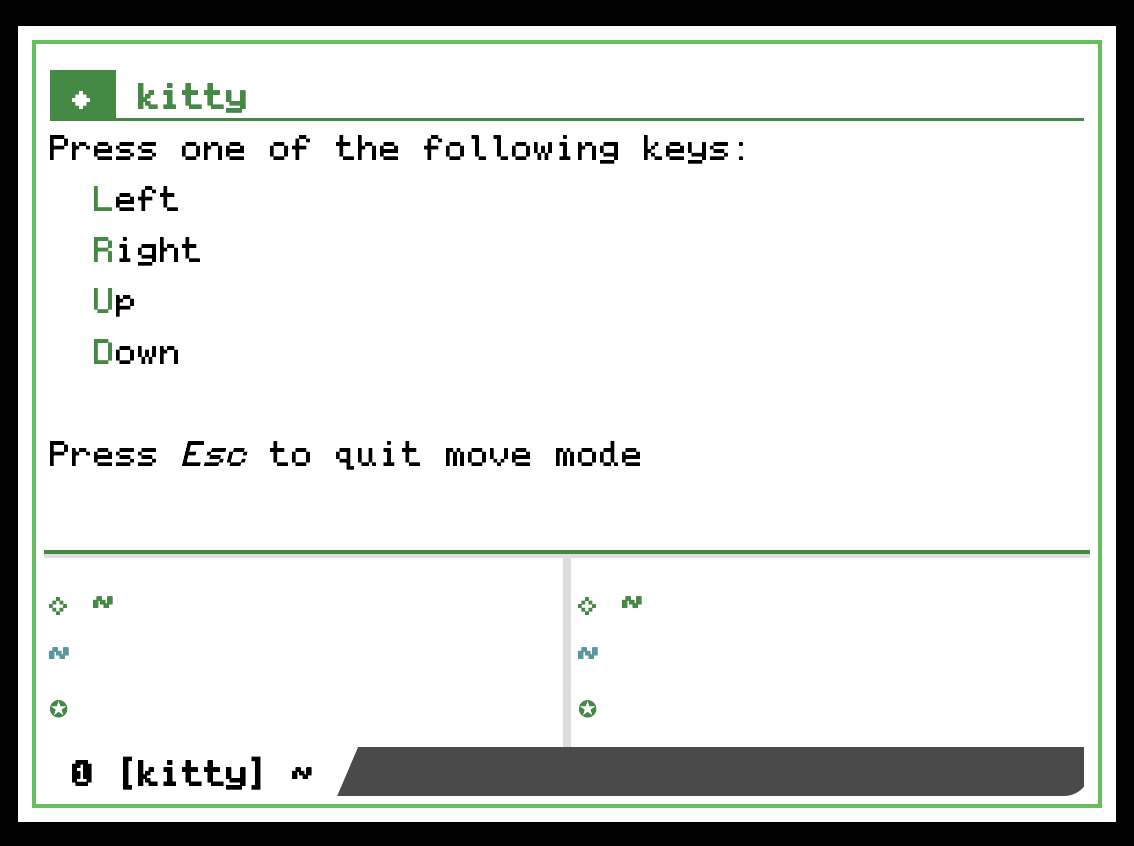
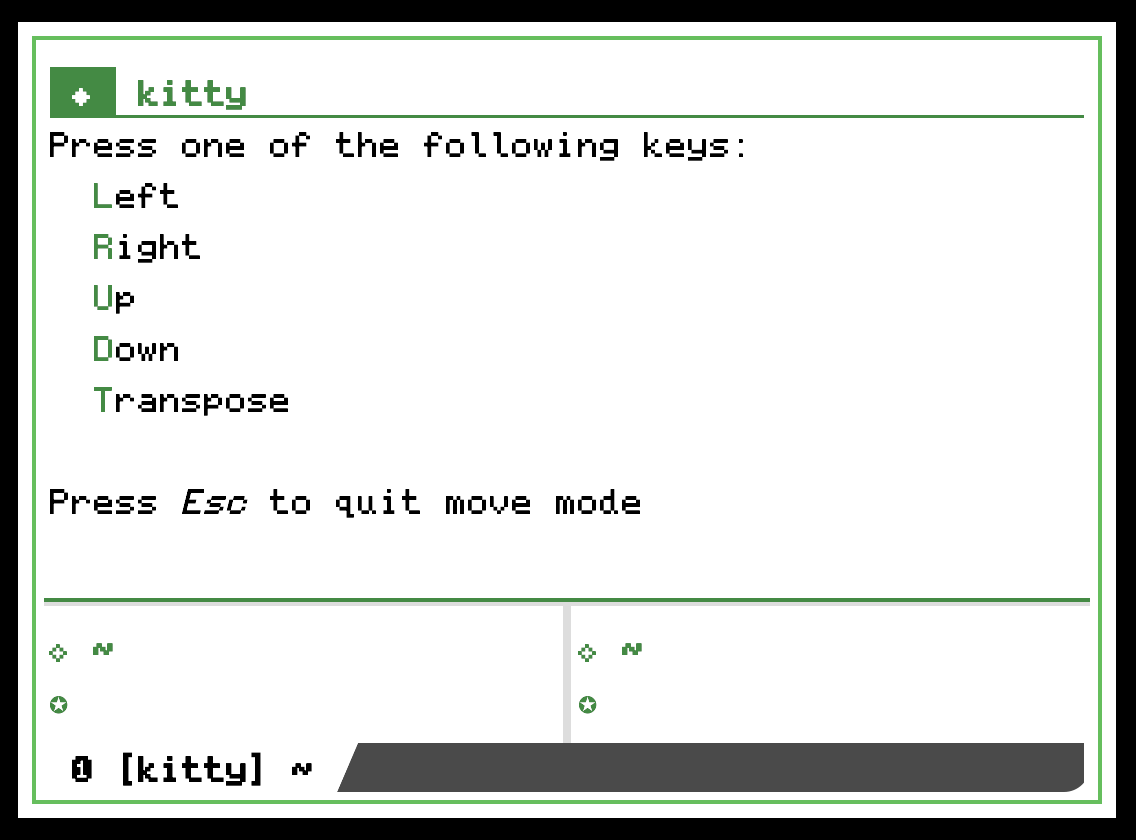
Update README and screenshot for transpose feature

diff --git a/README.md b/README.md
@@ -1,10 +1,10 @@
 # kitty-imove
 
-Interactive window-moving overlay for [kitty](https://sw.kovidgoyal.net/kitty/), similar to the built-in resize mode (`kitty_mod+r`).
+Interactive window management overlay for [kitty](https://sw.kovidgoyal.net/kitty/), similar to the built-in resize mode (`kitty_mod+r`).
 
 ![screenshot](screenshot.png)
 
-Press a shortcut to open the overlay, then use letter keys to move the active window:
+Press a shortcut to open the overlay, then use letter keys to manipulate the active window:
 
 | Key | Action |
 |-----|--------|
@@ -12,6 +12,7 @@ Press a shortcut to open the overlay, then use letter keys to move the active wi
 | `r` | Move right |
 | `u` | Move up |
 | `d` | Move down |
+| `t` | Transpose (rotate split orientation) |
 | `esc` / `q` | Quit |
 
 ## Requirements
